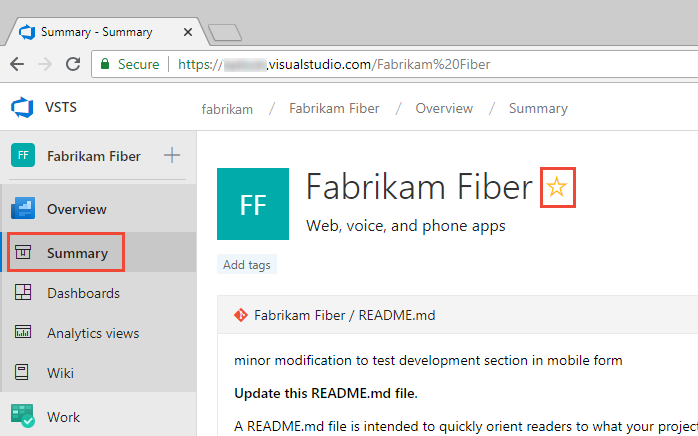
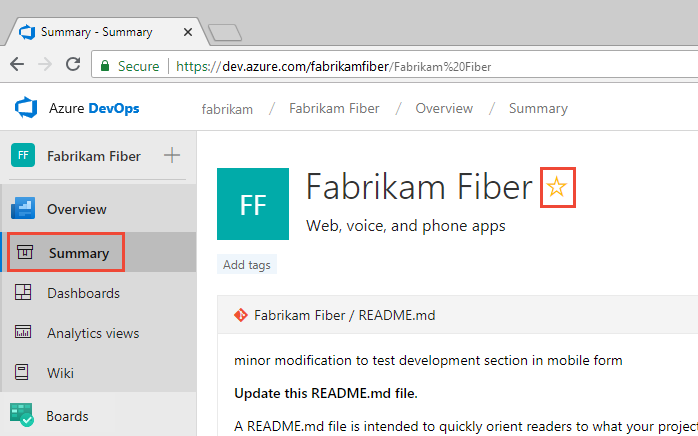
navigation content rebrand updates

diff --git a/docs/project/navigation/set-favorites.md b/docs/project/navigation/set-favorites.md
@@ -98,7 +98,7 @@ You can set favorites for the following artifacts from the indicated page.
 	> [!div class="mx-imgBorder"]  
 	> ![web portal, Azure DevOps logo](_img/favorites/favorite-project-vert.png)  
 <a id="team-artifact" />
-0. To favorite a team artifact, open **Work>Backlogs** or **Work>Boards**. Select the team you want to favorite from the team selector and choose the ![](../../_img/icons/icon-favorite-star.png) star icon.
+0. To favorite a team artifact, open **Boards>Boards** or **Boards>Backlogs**. Select the team you want to favorite from the team selector and choose the ![](../../_img/icons/icon-favorite-star.png) star icon.
 
 	> [!div class="mx-imgBorder"]  
 	> ![Work>Boards, set team favorite](_img/favorites/set-team-favorite-vert.png)
@@ -172,9 +172,9 @@ Access your favorites by choosing the ![](../../_img/icons/inbox.png) inbox icon
 
 ::: moniker range="vsts"
 
-You can favorite several Agile tools for a team from a **Work** page.  
+You can favorite several Agile tools for a team from a **Boards** page.  
 
-1. From **Work**, choose the page of interest, such as **Boards**, **Backlogs**, or **Sprints**.  
+1. Choose **Boards**, and then choose the page of interest, such as **Boards**, **Backlogs**, or **Sprints**.  
 
 	For example, here we choose (1) **Work** and then (2) **Backlogs**.
 
@@ -230,13 +230,39 @@ Favoriting a product backlog, sprint backlog, or Kanban board isn't supported in
    
 ::: moniker-end  
 
+::: moniker range="vsts"  
+
+1. From **Dashboards**, open the selector and choose the **Browse all dashboards** option. 
+ 
+	> [!div class="mx-imgBorder"]  
+	> ![Dashboards, Browse all dashboards option](../../report/dashboards/_img/dashboards/browse-all-dashboards.png)  
+
+2. The **Mine** page shows your favorited dashboards, and all dashboards of teams that you belong to. The **All** page (shown below) lists all dashboards defined for the project in alphabetical order. You can filter the list by team or by keyword.   
+ 
+	> [!div class="mx-imgBorder"]  
+	> ![Dashboards, Browse all dashboards option](../../report/dashboards/_img/dashboards/all-dashboards-list.png)  
+
+	> [!TIP]
+	> You can change the sort order of the list by choosing the column label.   
+	 
+3. To favorite a dashboard, hover over the dashboard and choose the ![star icon](../../_img/icons/icon-favorite-star.png).  
+
+	> [!div class="mx-imgBorder"]  
+	> ![Dashboards, Browse all dashboards option](../../report/dashboards/_img/dashboards/favorite-dashboard.png)  
+
+	Favoriting a dashboard will cause it to appear on your **Favorites** page and towards the top in the **Dashboards** selection menu.
+   
+::: moniker-end  
+
 ::: moniker range=">= tfs-2017  <= tfs-2018"  
 [!INCLUDE [temp](../../_shared/new-navigation-not-supported.md)]  
 ::: moniker-end  
 
 # [Previous navigation](#tab/previous-nav)
 
-Favoriting a dashboard isn't supported in previous navigation.  
+::: moniker range=">= tfs-2017  <= tfs-2018"  
+Favoriting a dashboard isn't supported for TFS 2018 and earlier versions.
+::: moniker-end  
 
 ---
 
@@ -246,7 +272,7 @@ Favoriting a dashboard isn't supported in previous navigation.
 
 ::: moniker range="vsts"  
 
-From any **Code** page, open the repository selector and choose the ![](../../_img/icons/icon-favorite-star.png) star icon for the repository you want to favorite.
+From any **Repos** page, open the repository selector and choose the ![](../../_img/icons/icon-favorite-star.png) star icon for the repository you want to favorite.
 
 > [!div class="mx-imgBorder"]  
 > ![Code page, Repository selector, choose favorites icon](_img/favorites/favorite-repo-vert.png)  
@@ -273,10 +299,10 @@ From any **Code** page, open the repository selector and choose the ![](../../_i
 
 ::: moniker range="vsts"  
 
-Open **Build and Release>Builds** and choose either **Mine** or **Definitions** page. Choose the ![](../../_img/icons/icon-favorite-star.png) star icon next to the build definition you want to favorite. Or, open the context menu of the build definition, and then select **Add to my favorites** or **Add to team favorites**.  
+Open **Pipelines>Builds** and choose either **Mine** or **Definitions** page. Choose the ![](../../_img/icons/icon-favorite-star.png) star icon next to the build definition you want to favorite. Or, open the context menu of the build definition, and then select **Add to my favorites** or **Add to team favorites**.  
 
 > [!div class="mx-imgBorder"]  
-> ![Build & Release, Builds, Add to my favorites or team favorites, new navigation](_img/favorites/set-build-favorites-vert.png)
+> ![Pipelines>Builds, Add to my favorites or team favorites, new navigation](_img/favorites/set-build-favorites-vert.png)
 
 ::: moniker-end
 
@@ -300,7 +326,7 @@ Open **Build and Release>Builds** and choose either **Mine** or **Definitions** 
 
 ::: moniker range="vsts"  
 
-Open **Work>Queries** and choose the **All** page. Expand a folder as needed. Choose the ![](../../_img/icons/icon-favorite-star.png) star icon next to the query you want to favorite. 
+Open **Boards>Queries** and choose the **All** page. Expand a folder as needed. Choose the ![](../../_img/icons/icon-favorite-star.png) star icon next to the query you want to favorite. 
 
 Or, open the context menu of the query, and then select **Add to Team Favorites**, and then select from the list of teams. 
 
@@ -349,11 +375,48 @@ Open **Work>Queries**. Next, open the ![](../../_img/icons/actions-icon.png) act
 
 ## Favorite a delivery plan 
 
+To learn more about delivery plans, see [Review team Delivery Plans](../../boards/plans/review-team-plans.md).
+
+#[New navigation](#tab/new-nav)  
+
+::: moniker range="vsts"    
+
+To mark a delivery plan as a favorite, open the **Boards>Plans** page and choose the ![](../../_img/icons/icon-favorite-star.png) star icon next to the Delivery Plan. 
+::: moniker-end    
+
+::: moniker range=">= tfs-2015 <= tfs-2018"    
+[!INCLUDE [temp](../../_shared/new-navigation-not-supported.md)]  
+::: moniker-end    
+
+
+# [Previous navigation](#tab/previous-nav)
+
 To mark a delivery plan as a favorite, open the **Work>Plans** page and choose the ![](../../_img/icons/icon-favorite-star.png) star icon next to the Delivery Plan.
 
-## Favorite a test plan    
+---
+
+## Favorite a test plan 
+
+To learn more about test plans, see [Create a test plan and test suite](../../test/create-a-test-plan.md).
+
+#[New navigation](#tab/new-nav)  
+
+::: moniker range="vsts"    
+
+To mark a test plan as a favorite, open **Test Plans>Test Plans** and choose the ![](../../_img/icons/icon-favorite-star.png) star icon next to a test plan from the menu that shows All test plans. 
+
+::: moniker-end    
+
+::: moniker range=">= tfs-2015 <= tfs-2018"    
+[!INCLUDE [temp](../../_shared/new-navigation-not-supported.md)]  
+::: moniker-end    
+
+
+# [Previous navigation](#tab/previous-nav)
 
 To mark a test plan as a favorite, open the **Test>Test Plans** page and choose the ![](../../_img/icons/icon-favorite-star.png) star icon next to a test plan from the menu that shows All test plans. 
+
+---
 
 
 <a id="unfavorite">  </a>
@@ -383,25 +446,7 @@ You can unfavorite an artifact from the **Projects>Favorites** page and choose t
 
 Similarly, you can unfavorite an artifact from the same page where you favorited it. 
 
-
 ---
-
-
-
-<!---
-<a id="team-favorites"> </a>
-## Set team favorites 
- You can define team favorites for the following:
-
-- **Code/Explorer**: Add repos or folders to team favories  
-- **Work/Queries**: A  [Shared work item queries](../../boards/queries/using-queries.md) to team favorites    
-- **Build/Explorer**: Add build definitions to team favorites   
-
-From your team context, drag shared queries, builds, and folders to Team favorites to provide quick access to those items. Or, choose the Add to team favorites option from the context menu for the item. You must be [added as a team admin](../../organizations/settings/add-team-administrator.md) to manage team favorites.  
-
-![Drag items to team favorites](../../_img/alm-index-team-favorites.png)  
-
--->
 
 
 ## Related articles

diff --git a/docs/project/navigation/filter-basics.md b/docs/project/navigation/filter-basics.md
@@ -39,7 +39,7 @@ To turn filtering on, choose the ![](../../_img/icons/filter-icon.png) filter ic
 
 You can filter work items by typing a keyword or using one or more of the fields provided, such as work item type, assigned to, state, and tags. Based on the keyword that you enter, the filter function will list work items based on any visible/displayed column or field, including tags. Also, you can enter a value for an ID, whether or not the ID field is visible.  
 
-![Work>Backlogs, turn filtering on](../../boards/backlogs/_img/filter-backlogs-options.png)
+![Backlogs, turn filtering on](../../boards/backlogs/_img/filter-backlogs-options.png)
 
 The filtered set is always a flat list, even if you've selected to show parents. 
 
@@ -83,17 +83,3 @@ To learn more about filtering using tags, see [Add tags to work items to categor
 - [Filter your Kanban board](../../boards/boards/filter-kanban-board.md)
 - [Add tags to work items](../../boards/queries/add-tags-to-work-items.md) 
 
-
-<!---
-* Code>Commits: Simple history, Author, From date, To date 
-* Code>Pushes
-* Code>Branches (Filter icon is there, but doesn't appear active. 
-* Code> Pull Request (In active filter icon) 
-* Code> Pull Request> Search 
-* Work>Work Items - Keyword, Types, Assigned to, States, Area, Tags 
-* Work> Board (Kanban) - Keyword, Types, Assigned To, Tags, Iteration, Parent Work Item 
-* Work>Backlogs - Keyword, Types, Assigned to, States, Tags
-* Work>Sprint Backlogs - Keyword, Types, Assigned to, States, Tags
-* Work>Taskboard 
-
---> 

diff --git a/docs/project/navigation/use-breadcrumbs-selectors.md b/docs/project/navigation/use-breadcrumbs-selectors.md
@@ -103,7 +103,7 @@ For example, here we open the *Work in Progress* dashboard.
 
 ---
 
-### Example: Work>Backlogs 
+### Example: Backlogs 
 
 
 
@@ -111,7 +111,7 @@ For example, here we open the *Work in Progress* dashboard.
 
 ::: moniker range="vsts"
 
-From the **Work>Backlogs** page, you use the selector to switch to another team's backlog. Again, favorited backlogs appear towards the top of the menu. You can also filter the list based on a team name or keyword.  
+From the **Boards>Backlogs** page, you use the selector to switch to another team's backlog. Again, favorited backlogs appear towards the top of the menu. You can also filter the list based on a team name or keyword.  
 
 > [!div class="mx-imgBorder"]  
 > ![Work>Backlogs, backlogs selector](_img/breadcrumbs/backlog-selector.png) 
@@ -161,8 +161,8 @@ Also, you can choose a query that you've favorited from the selector menu, Or, y
 
 ::: moniker-end
 
-### Example: Build and release folders and breadcrumbs
-Breadcrumb-and-selector navigation elements are used within most services that support defining and organizing artifacts within folders. This includes **Build and Release** applications, **Builds** and **Releases** pages. 
+### Example: Pipeline folders and breadcrumbs
+Breadcrumb-and-selector navigation elements are used within most services that support defining and organizing artifacts within folders. This includes **Pipelines** or **Build and Release** applications pages. 
 
 # [New navigation](#tab/new-nav)
 ::: moniker range="vsts"
